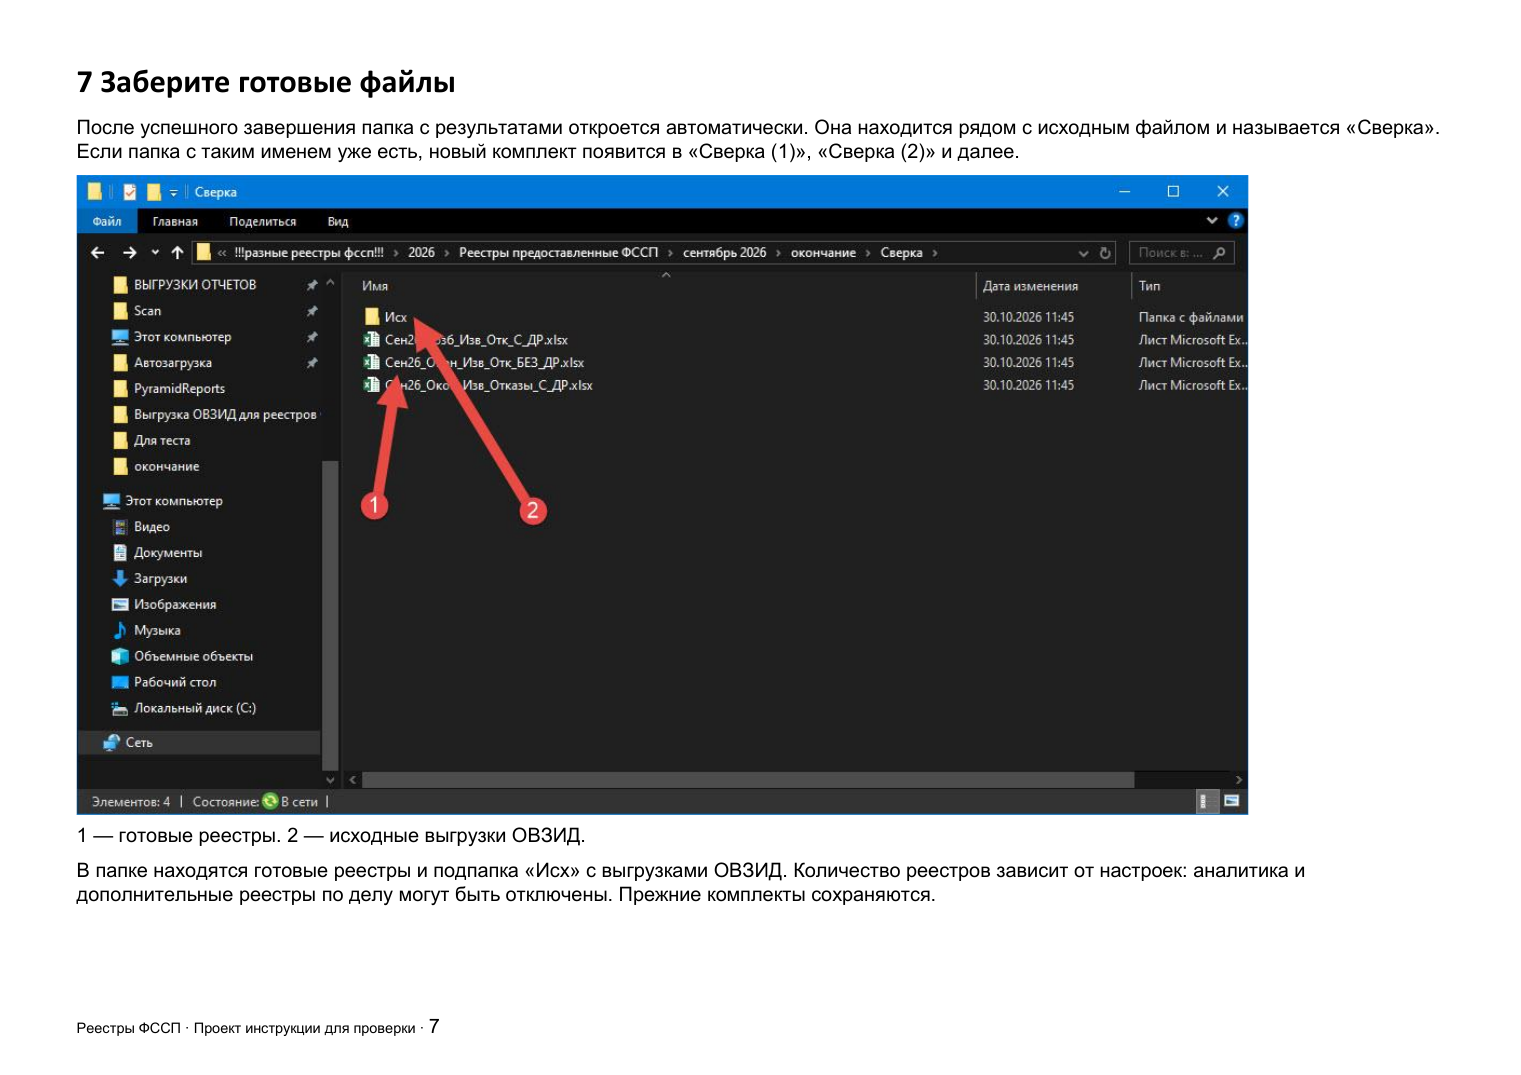
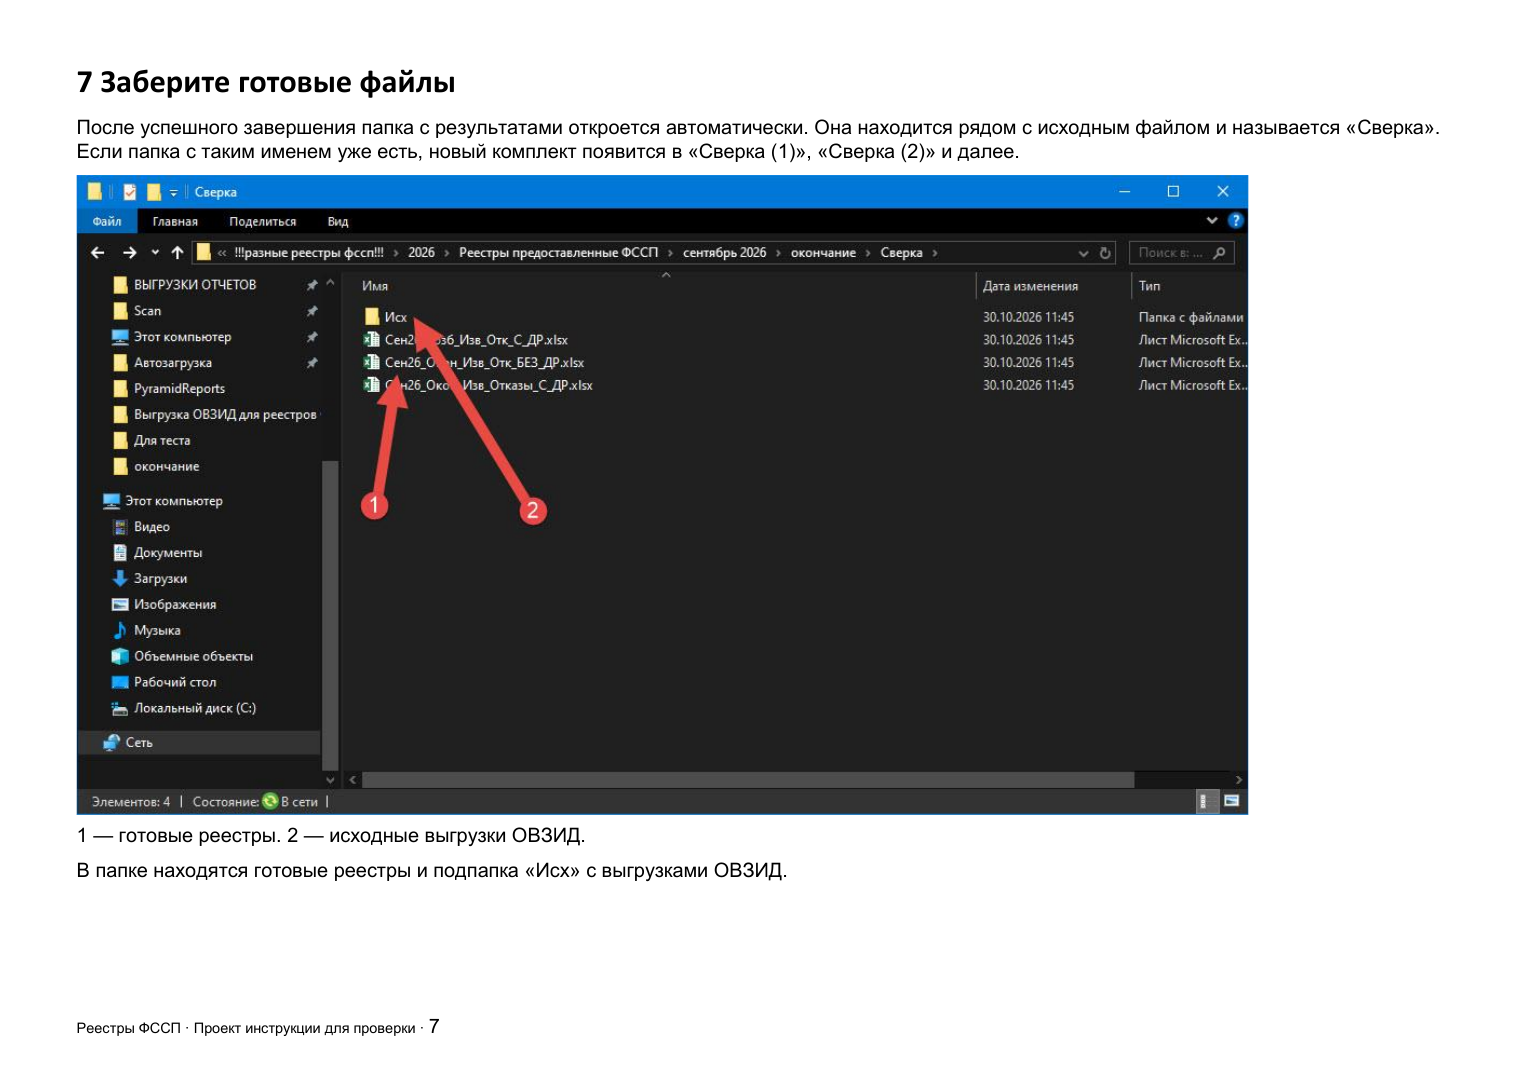
Заменена инструкция на новую редакцию пользователя без описания дополнительных файлов

Changed region(s): [[0.0618, 0.7981, 0.8652, 0.8595]]

diff --git a/PROJECT_CONTEXT.md b/PROJECT_CONTEXT.md
@@ -1,5 +1,9 @@
 # Контекст проекта для продолжения в новом чате
 
+## Замена инструкции v0.3.9
+
+Пользователь предоставил новую редакцию того же Word и потребовал заменить встроенные страницы без добавления сведений об отключённых дополнительных файлах. Страницы повторно экспортированы непосредственно из нового документа, без редактирования текста. На странице 7 оставлены только готовые реестры и подпапка «Исх» согласно документу пользователя. Автоматический показ и навигация не меняются.
+
 ## Утверждённая инструкция и восстановление входа v0.3.8
 
 Пользователь вернул окончательный Word на 7 страницах, добавив шаг авторизации, и разрешил внедрение и релиз. Все страницы встроены в EXE в исходном утверждённом виде: текст, снимки, стрелки. Многостраничный диалог автоматически открывается при первом запуске, «Назад»/«Далее»/«Готово», кнопка «Инструкция» слева сверху. Отметка `%LOCALAPPDATA%/FSSPReestrParser/instruction.json` появляется только по «Готово»; закрытие крестиком её не ставит. Страницы занимают рабочую область текущего монитора; повторное открытие доступно кнопкой.

diff --git a/docs/specs/initial/spec.md b/docs/specs/initial/spec.md
@@ -6,6 +6,8 @@
 
 ## Инструкция при первом запуске
 
+Редакция для v0.3.9: использовать новый предоставленный Word без дополнений. В пользовательской инструкции не рассказывать об отключённых дополнительных файлах.
+
 Итоговая редакция Word получена и одобрена пользователем для внедрения и публикации. Источник — `output/user-guide-draft/Инструкция_Реестры_ФССП_для_проверки.docx`, 7 шагов, включая добавленную пользователем авторизацию. Встроенные страницы должны воспроизводить утверждённый текст и изображения со стрелками без редакторских изменений.
 
 Уточнение заказчика: сначала подготовить отдельный редактируемый Word-проект со снимками и стрелками. Внедрение описанного ниже поведения и новый релиз — только после проверки заказчиком и получения его редакции. Программа на этапе подготовки проекта не меняется.
